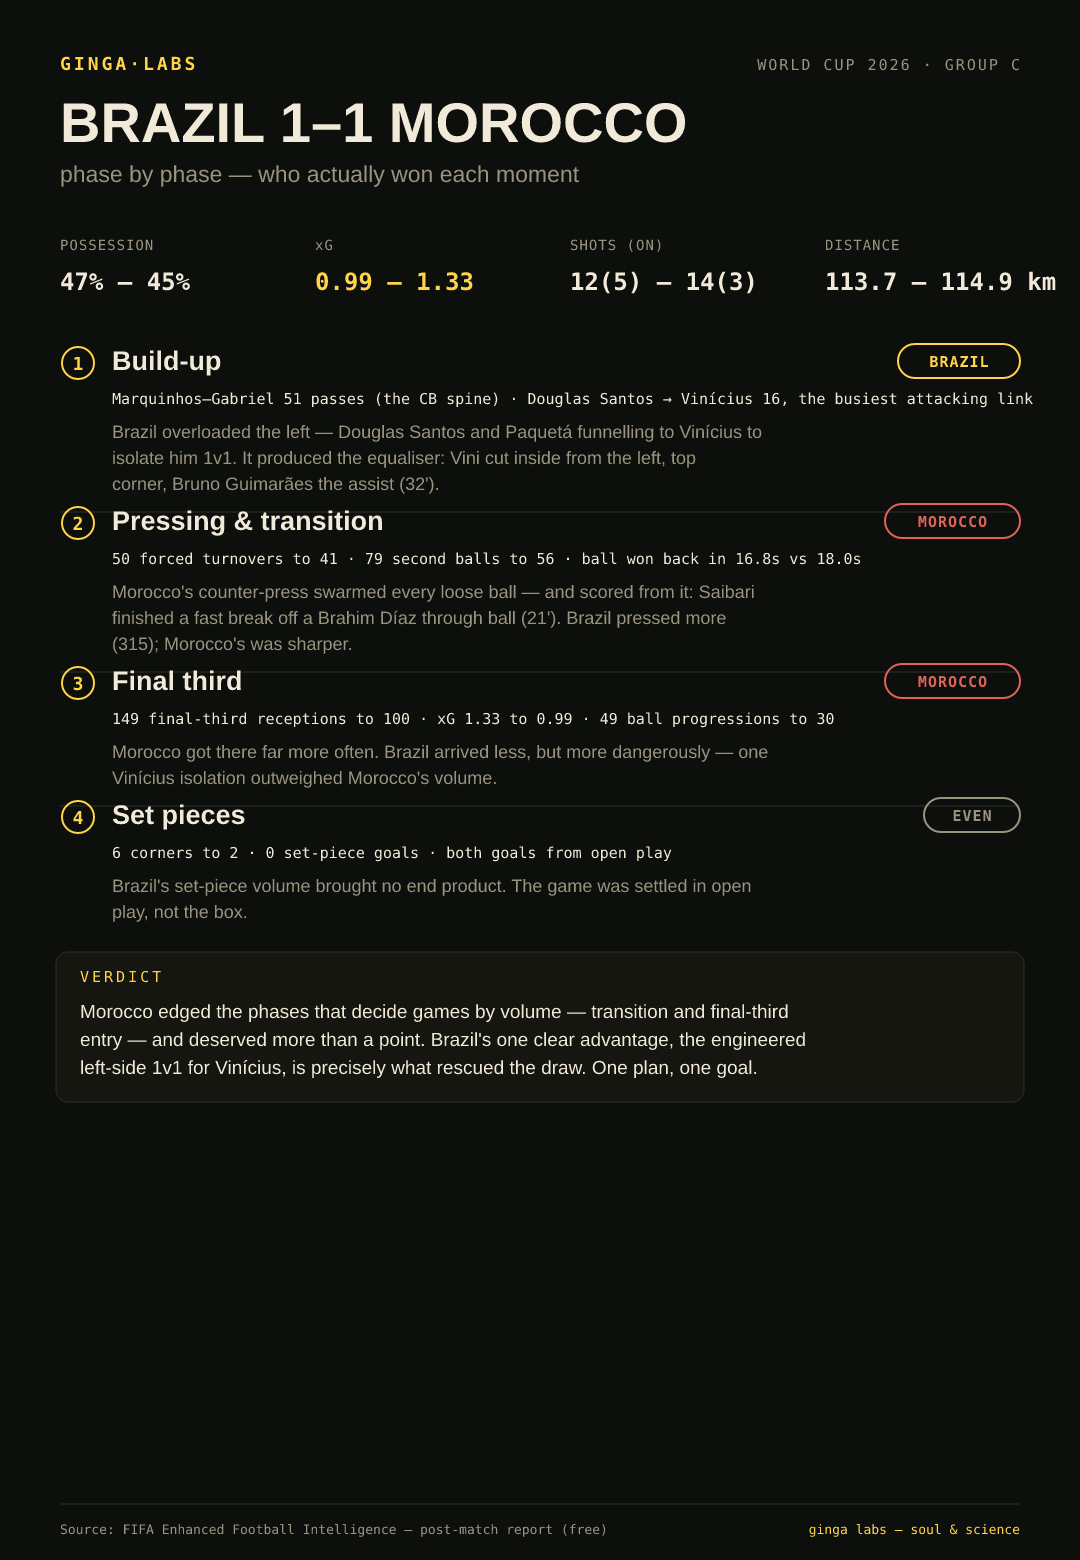
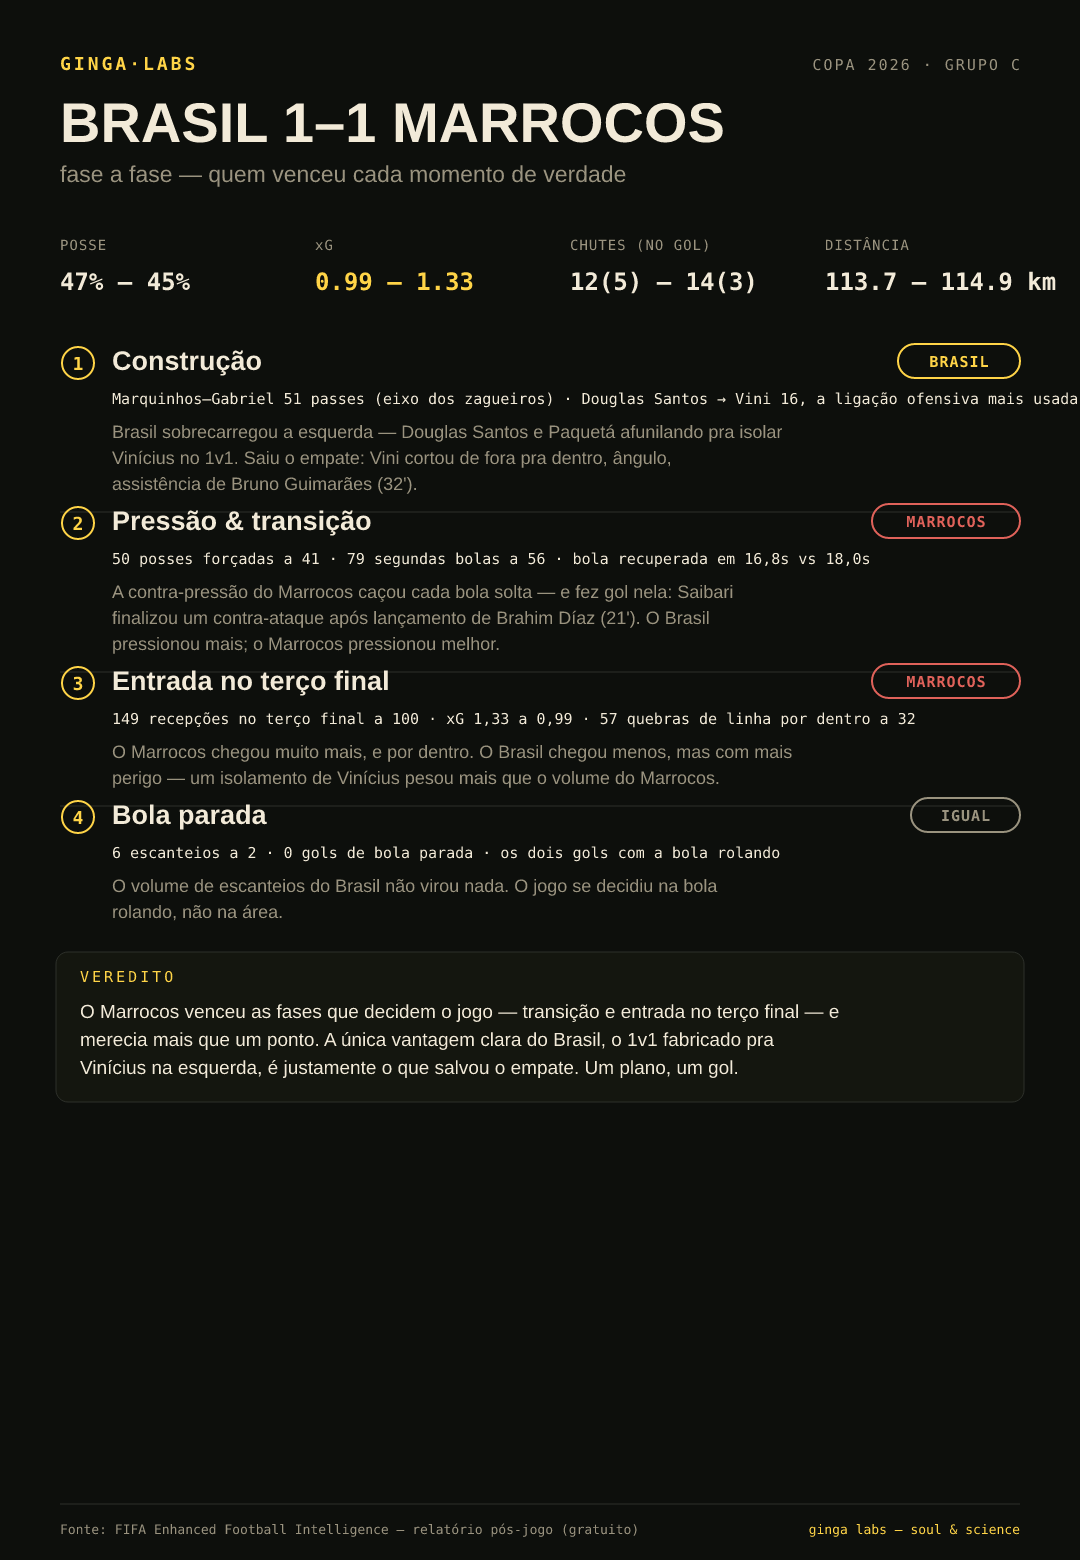
Análise Brasil-Marrocos no estilo McKinsey, em português
- Novo artigo: 'O empate mentiu pro Brasil' — pirâmide (tese → 3 pilares
  MECE → mecanismo → evidência → implicação), aterrado nos dados da FIFA EFI
- Relatório fase-a-fase traduzido pro PT e com mecanismo ligado aos gols
- Artigo adicionado à home

diff --git a/engine/site/articles/brasil-marrocos-o-empate-mentiu.html b/engine/site/articles/brasil-marrocos-o-empate-mentiu.html
@@ -1,0 +1,77 @@
+<!doctype html>
+<html lang="pt-BR">
+<head>
+  <meta charset="utf-8" />
+  <meta name="viewport" content="width=device-width, initial-scale=1" />
+  <title>O empate mentiu pro Brasil — Ginga Labs</title>
+  <meta name="description" content="Brasil 1–1 Marrocos, lido pelos dados da FIFA. O placar foi justo? Os números dizem que não. Uma análise profunda de onde o jogo foi ganho e perdido — momento a momento." />
+  <link rel="stylesheet" href="../style.css" />
+</head>
+<body>
+  <header class="bar">
+    <div class="wrap">
+      <a class="word" href="../index.html" style="text-decoration:none">GINGA<b>·</b>LABS</a>
+      <nav>soul &amp; science</nav>
+    </div>
+  </header>
+
+  <article class="piece wrap">
+    <p class="meta">Copa 2026 · Grupo C · análise pós-jogo</p>
+    <h1>O empate mentiu pro Brasil</h1>
+    <p class="sub">Brasil 1–1 Marrocos. O placar pareceu justo. Os dados da FIFA dizem que não — e mostram exatamente por quê.</p>
+
+    <p>Comece pela resposta, não pela narração. <b>O 1 a 1 lisonjeou o Brasil.</b> Marrocos foi melhor nos dois momentos que mais decidem o futebol de seleção hoje — a transição e a entrada no último terço — e mesmo assim saiu com um ponto. O Brasil resgatou o empate com uma coisa só: <b>um único plano de jogo que funcionou</b>, afogar a faixa esquerda até soltar Vinícius no um-contra-um. Tirando esse plano, o jogo foi do Marrocos.</p>
+
+    <p>Isso não é opinião contra a maré. É o que três blocos de números mostram, e nenhum deles se sobrepõe ao outro. Um a um.</p>
+
+    <p class="pull">Marrocos venceu a transição e a entrada no terço final. O Brasil venceu a esquerda. Só que a esquerda bastou pra empatar — e por isso o placar enganou.</p>
+
+    <h3>1 — A transição decidiu o jogo. E foi do Marrocos.</h3>
+    <p>O mecanismo primeiro: o Marrocos não tentou ter a bola, tentou <b>caçar a bola perdida</b>. Sentou num bloco médio (39% do tempo de jogo contra 16% do Brasil) e transformou cada disputa solta numa arrancada. Não é leitura, é o desenho do jogo deles.</p>
+    <div class="data">
+      Segunda bola ganha: <b>Marrocos 79 · Brasil 56</b><br />
+      Posses forçadas (roubadas) do rival: <b>Marrocos 50 · Brasil 41</b><br />
+      Tempo médio pra recuperar a bola: <b>Marrocos 16,8s · Brasil 18,0s</b>
+    </div>
+    <p>Os três números contam a mesma história por ângulos diferentes: o Marrocos recuperou mais rápido, ganhou mais rebote e roubou mais. Quem recupera a bola um segundo antes encontra o rival ainda desorganizado — e foi assim que saiu o gol deles. <b>Aos 21 minutos</b>, segunda bola ganha no meio, lançamento de Brahim Díaz nas costas da linha e Saibari finalizando uma transição limpa. Não foi um lance isolado de qualidade; foi o plano de jogo entregando exatamente o que ele foi desenhado pra entregar.</p>
+    <p><b>Implicação:</b> contra um time que vive de transição, a derrota não vem de criar pouco — vem de perder a bola no lugar errado. O ajuste não é atacar mais; é proteger a saída.</p>
+
+    <h3>2 — O Brasil só teve uma via de criação. E era a esquerda.</h3>
+    <p>Com a bola, o Brasil ficou travado. O Marrocos abriu mão da marcação alta de propósito — o Brasil teve <b>31% do jogo em construção sem pressão</b> contra só 12% do Marrocos — e ainda assim a bola não furava o bloco. Ela circulava entre os zagueiros: <b>Marquinhos e Gabriel Magalhães trocaram 51 passes entre si</b>, a dupla mais ativa do mapa. Posse sem perigo é o convite que o Marrocos queria.</p>
+    <p>A única veia que sangrou foi a esquerda. Douglas Santos e Paquetá afunilaram tudo pra um lado só, com um objetivo: <b>isolar Vinícius no um-contra-um</b>. O eixo Douglas Santos → Vinícius foi a ligação ofensiva mais carregada do time (16 passes diretos).</p>
+    <div class="data">
+      Dupla de mais passes (Brasil): <b>Marquinhos–Gabriel, 51</b> — eixo dos zagueiros<br />
+      Ligação ofensiva mais usada: <b>Douglas Santos → Vinícius, 16</b><br />
+      Gol: <b>Vinícius, 32'</b> — cortou de fora pra dentro pela esquerda, ângulo, assistência de Bruno Guimarães
+    </div>
+    <p>O gol do empate é a prova do mecanismo: veio exatamente de onde o time inteiro estava empurrando a bola. Não foi acaso — foi o plano A funcionando uma vez.</p>
+    <p><b>Implicação:</b> um plano que funciona é um ativo; um plano <i>único</i> é uma vulnerabilidade. Some o lado esquerdo do Brasil nesse jogo e o time não tem segundo caminho pro gol. Marcar o Vinícius com dois homens teria desligado o ataque inteiro.</p>
+
+    <h3>3 — Marrocos criou mais. O Brasil criou melhor. Isso é alerta, não elogio.</h3>
+    <p>A tentação é dizer "o Brasil foi mais eficiente" e fechar a conta. Os números deixam, mas o jeito honesto de ler é outro. O Marrocos chegou ao terço final com muito mais frequência — e por dentro, não pela linha de fundo inofensiva.</p>
+    <div class="data">
+      Recepções no terço final: <b>Marrocos 149 · Brasil 100</b><br />
+      Progressões de bola: <b>Marrocos 49 · Brasil 30</b><br />
+      Quebras de linha por dentro: <b>Marrocos 57 · Brasil 32</b><br />
+      xG (gols esperados): <b>Marrocos 1,33 · Brasil 0,99</b>
+    </div>
+    <p>O mecanismo: o Marrocos furou os corredores centrais — 57 quebras de linha por dentro contra 32 do Brasil — e é por dentro que se chega ao gol. O Brasil teve a bola, mas a bola dele morria por fora. A "eficiência" brasileira é, na real, <b>baixo volume com uma facada</b>: uma chance clara de Vinícius pesou mais que o acúmulo do Marrocos. Que o Bounou tenha precisado fazer várias defesas não muda o saldo — o xG diz que o Marrocos construiu o jogo mais perigoso.</p>
+    <p><b>Implicação:</b> eficiência não é um plano, é uma sorte que você não controla. Quem repete "criamos menos mas fomos cirúrgicos" está a um jogo de criar menos e não ter a facada. O xG de 0,99 contra um adversário que fez 1,33 é um aviso, não uma vitória moral.</p>
+
+    <h3>O que decidiu nada: a bola parada</h3>
+    <p>Pra fechar a conta de forma completa: a bola parada, normalmente o desempate dos jogos truncados, não pesou. O Brasil teve <b>6 escanteios a 2</b> e não tirou nada deles. Os dois gols saíram com a bola rolando. O jogo se decidiu no campo aberto — onde o Marrocos foi melhor.</p>
+
+    <p class="pull">O Brasil empatou um jogo que estava perdendo na essência. Saiu com um ponto e uma pergunta: o plano A é genial ou é o único que existe?</p>
+
+    <h3>O que os dados não respondem</h3>
+    <p>Honestidade é o ponto desta casa. O xG mede a <i>qualidade</i> média das chances, não quem mereceu ganhar de forma absoluta — um time pode acumular 1,33 de xG com muitos chutes médios e ainda assim ser justo no empate. O que estes números provam é o <b>como</b>: por onde cada time chegou, onde ganhou a bola, de onde saíram os gols. O <i>placar</i> justo é discutível; o <i>relato</i> de onde o jogo foi ganho e perdido, não.</p>
+
+    <p class="note" style="color:var(--muted)">
+      <b>Fontes:</b> dados de eventos da <a href="https://www.fifatrainingcentre.com/en/fwc2026/">FIFA Enhanced Football Intelligence</a> — relatório pós-jogo oficial (gratuito): matriz de passes, quebras de linha, pressão, fases de jogo, xG. Cronologia e gols pela <a href="https://www.espn.com/soccer/">narração minuto a minuto da ESPN</a>. Toda métrica desta peça vem desses dois registros; a leitura é nossa.
+    </p>
+    <p class="note"><a class="backlink" href="../index.html">← Ginga Labs</a></p>
+  </article>
+
+  <footer><div class="wrap">GINGA·LABS — soul &amp; science.</div></footer>
+</body>
+</html>

diff --git a/engine/site/index.html b/engine/site/index.html
@@ -34,6 +34,12 @@
   <main class="wrap">
     <p class="section-h">Latest</p>
 
+    <a class="post" href="articles/brasil-marrocos-o-empate-mentiu.html">
+      <span class="meta">Copa 2026 · Grupo C · dados da FIFA</span>
+      <h2>O empate mentiu pro Brasil</h2>
+      <p>Brasil 1–1 Marrocos. O placar pareceu justo — os números dizem que não. Onde o jogo foi ganho e perdido, momento a momento.</p>
+    </a>
+
     <a class="post" href="articles/the-era-of-not-conceding.html">
       <span class="meta">Canon · World Cups · the data, 1930–2022</span>
       <h2>The Era of Not Conceding</h2>
